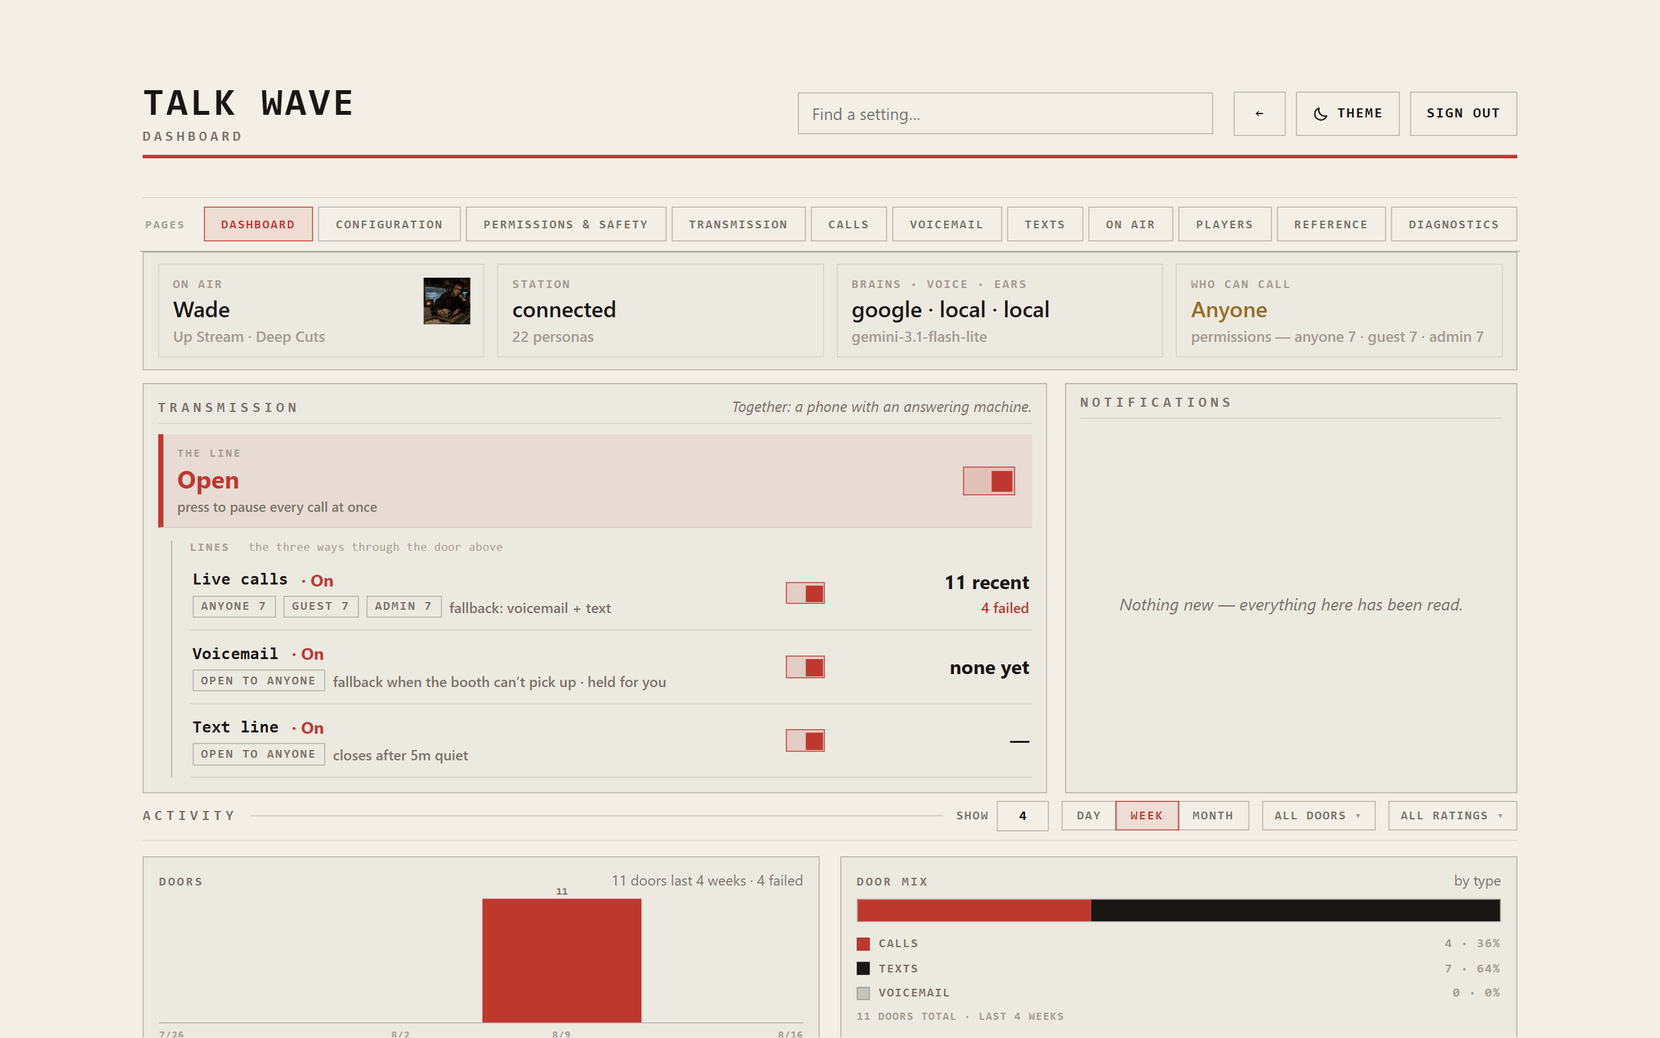
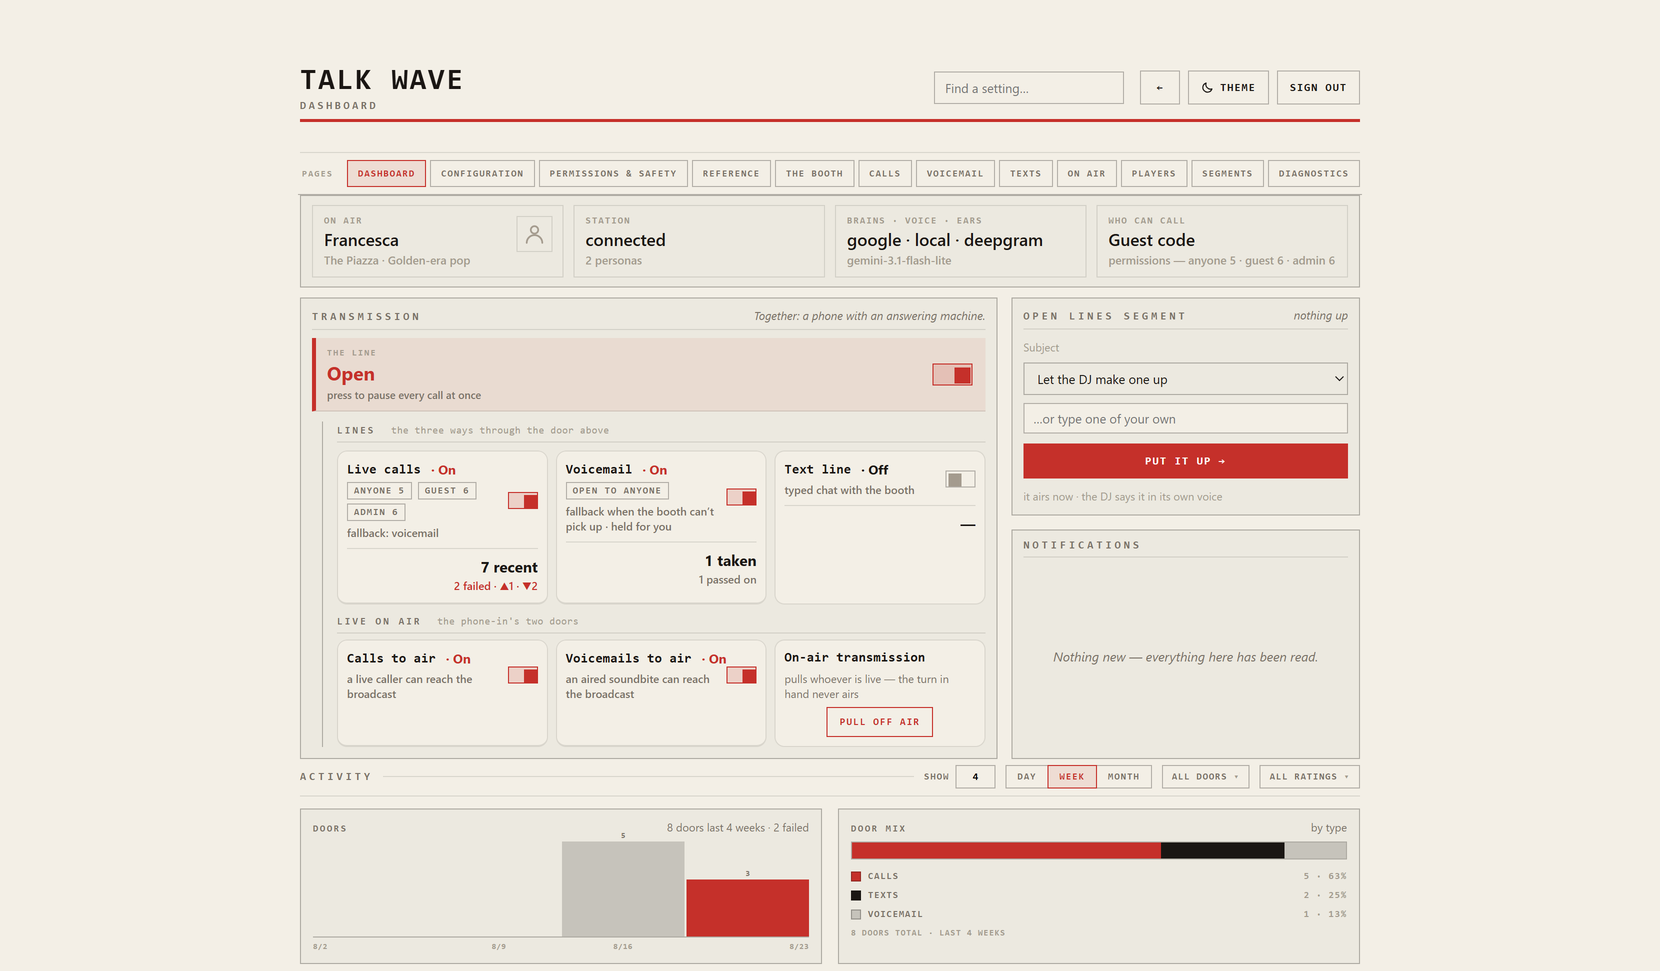
the README says what ships - fresh dashboard shots, one Getting started, every claim checked
The sweep's verdict: the claims held (two-minute tokens, ten voice
colours, the provider lists, the sound shelf) but the dashboard
screenshots were three redesigns old - a TRANSMISSION page, stacked
line rows, no Open Lines. Both retaken from the current panel in its
healthy state. The pull-down station player and the settings finder
join the features list, 'what the audience loves' joins the asks, and
Before-you-start folds into one Getting started: what you need, the
one-command install, then the four files of the stack - each one
linked and named, livekit.yaml included - with quickstart as the
walked-slowly version. Quickstart links the same four files.

diff --git a/README.md b/README.md
@@ -63,6 +63,7 @@ The call is not the station speaking. It's this sidecar's own realtime voice age
 
 **A player people actually use**
 - Installs to a phone like an app, and reads like one.
+- A **pull-down station player** — cover art, the record's tags, what's up next, the DJ's own line on the segue, and likes and song requests wired straight to the booth.
 - Embeds in two lines of HTML — inline card, launcher pill, docked bar, or pop-up. See [Embedding](docs/embedding.md).
 - Themes: light, dark, match-the-page, or the station's live show colours. Every string on the card overridable.
 - The card says how many are tuned in and offers the same heart any listener page has — both optional, both on by default.
@@ -78,12 +79,13 @@ The call is not the station speaking. It's this sidecar's own realtime voice age
 - A dashboard that acts (toggles post instantly, no save) and reads (on air, station health, activity charts).
 - Settings apply to the **next caller** — no restarts, ever.
 - Diagnostics run the real code paths: green means a call will work, not "the URL responded".
+- One search across every page — labels, help and each setting's own synonyms — that says where each answer lives.
 
 ## What a caller can make happen
 
 Every action here is a real tool the DJ can reach — on a call, on the text line, or out of a voicemail — and every one is a switch you can turn off. Anything that changes the station leaves its own receipt card in the caller's transcript, so what happened is never only the DJ's word for it.
 
-- **Just asking** — what's playing, the lyrics, what played earlier, the queue, the schedule, what's in the library, or by feel: "something dreamy and cinematic". Reads only, changes nothing, no card.
+- **Just asking** — what's playing, the lyrics, what played earlier, the queue, the schedule, what's in the library, what the audience loves, or by feel: "something dreamy and cinematic". Reads only, changes nothing, no card.
 - **Into the queue** — request a song, an album front to back, or a themed mix — and pull a queued track back out, or clear the lot.
 - **The record on air** — like it, take the like back, or skip it.
 - **Out to every listener** — a shout-out on air, a station segment (weather, news, a dedication), or a station beat and ident.
@@ -109,24 +111,24 @@ The README is the short version. The detail lives here:
 | **[Live on air](docs/on-air.md)** | The phone-in on the broadcast: what listeners hear, the three consents, the pull, and the wiring both containers need |
 | **[How a call actually works](docs/the-call.md)** | The path one sentence takes: the prompt and what it costs, the tool surface, how a request is triaged, and everything that can make the DJ speak |
 
-## Before you start
-
-- **A SUB/WAVE station, running** — Talk Wave is its companion phone line, not a standalone radio.
-- **A Docker host on the same network** — a NAS is fine. (Windows-local without Docker works for development.)
-- **One LLM API key** — or a local Ollama, which needs none. Calls spend **your** key; the usage caps are on by default. [What to run](docs/models.md).
-- **HTTPS, non-negotiable for calls** — browsers only grant the microphone to secure origins; the bundled Caddy provides one on a LAN with zero config. [Networking](docs/networking.md).
-- **LAN first** — get a call working at home before exposing anything; [security](docs/security.md) is the exposure checklist.
-- **Outside callers** need one router rule (a single UDP port) and one compose line — [networking](docs/networking.md) walks it.
-
 ## Getting started
 
-**The one-command version:**
+**You need three things:** a running **SUB/WAVE station** (Talk Wave is its companion phone line, not a standalone radio) · a **Docker host on the same network** — a NAS is fine · **one LLM API key**, or a local Ollama which needs none ([what to run](docs/models.md)). HTTPS comes bundled — browsers only grant the microphone to secure origins, and the included Caddy provides one on a LAN with zero config.
+
+**The one-command install:**
 
 ```bash
 curl -fsSL https://raw.githubusercontent.com/mrain1p/Talk-Wave/main/install.sh | bash
 ```
 
-**The ten-minute version: [docs/quickstart.md](docs/quickstart.md).** By hand, it is four files (`docker-compose.yaml` and `Caddyfile` from this repo, `.env` from `.env.example`, `livekit.yaml` from the example with a fresh secret) and one empty `data/` folder:
+It fetches the stack, generates the LiveKit secret, detects your LAN address and starts everything. **Or do it by hand** — the whole stack is four files plus one empty `data/` folder, and each file is worth a look before you run it:
+
+| File | What it is |
+|---|---|
+| [docker-compose.yaml](docker-compose.yaml) | The services — LiveKit, the worker, the web half, and the bundled Caddy TLS door |
+| [Caddyfile](Caddyfile) | The TLS front door: the widget route **and** the `/rtc` WebSocket route |
+| [.env.example](.env.example) → `.env` | The two variables below |
+| [livekit.example.yaml](livekit.example.yaml) → `livekit.yaml` | The LiveKit keypair — paste in a fresh secret (the file shows the generator); the app reads it from here too |
 
 ```bash
 cp .env.example .env
@@ -145,6 +147,8 @@ Images publish to `ghcr.io/mrain1p/talk-wave`; `:latest` tracks `main` and inclu
 | **`SUBWAVE_STREAM_URL`** | The station's public `https://` stream — **set it first**: left blank it derives a plain-http URL that browsers silently block as mixed content, and the caller hears no station |
 
 **Then open `https://<HOST_IP>:8443`** — the bundled Caddy TLS door, with a one-time certificate screen. Set the admin password, add an API key, run the pipeline check, press Call. Type passwords and keys only at `:8443`, never over plain `:8100`. Running your own reverse proxy instead? Replicate **both** Caddyfile routes — the widget *and* `/rtc` — or calls connect with no audio; [networking](docs/networking.md) has the details.
+
+**First run, walked slowly: [docs/quickstart.md](docs/quickstart.md)** — the same path with the certificate screen, the admin password, pointing at the station, the pipeline check, and what to back up. Get a call working on your LAN before exposing anything — [security](docs/security.md) is the exposure checklist, and callers from outside your network need one router rule plus one compose line ([networking](docs/networking.md)).
 
 ### Local, no Docker (Windows)
 

diff --git a/docs/quickstart.md b/docs/quickstart.md
@@ -22,7 +22,7 @@ Fetches the stack, generates the LiveKit secret, detects your LAN address, prepa
 
 ## Install
 
-Make a folder, grab four files from this repo, create one empty directory:
+Make a folder, grab four files from this repo — [docker-compose.yaml](../docker-compose.yaml), [Caddyfile](../Caddyfile), [.env.example](../.env.example) and [livekit.example.yaml](../livekit.example.yaml) — and create one empty directory:
 
 ```bash
 mkdir talk-wave && cd talk-wave
